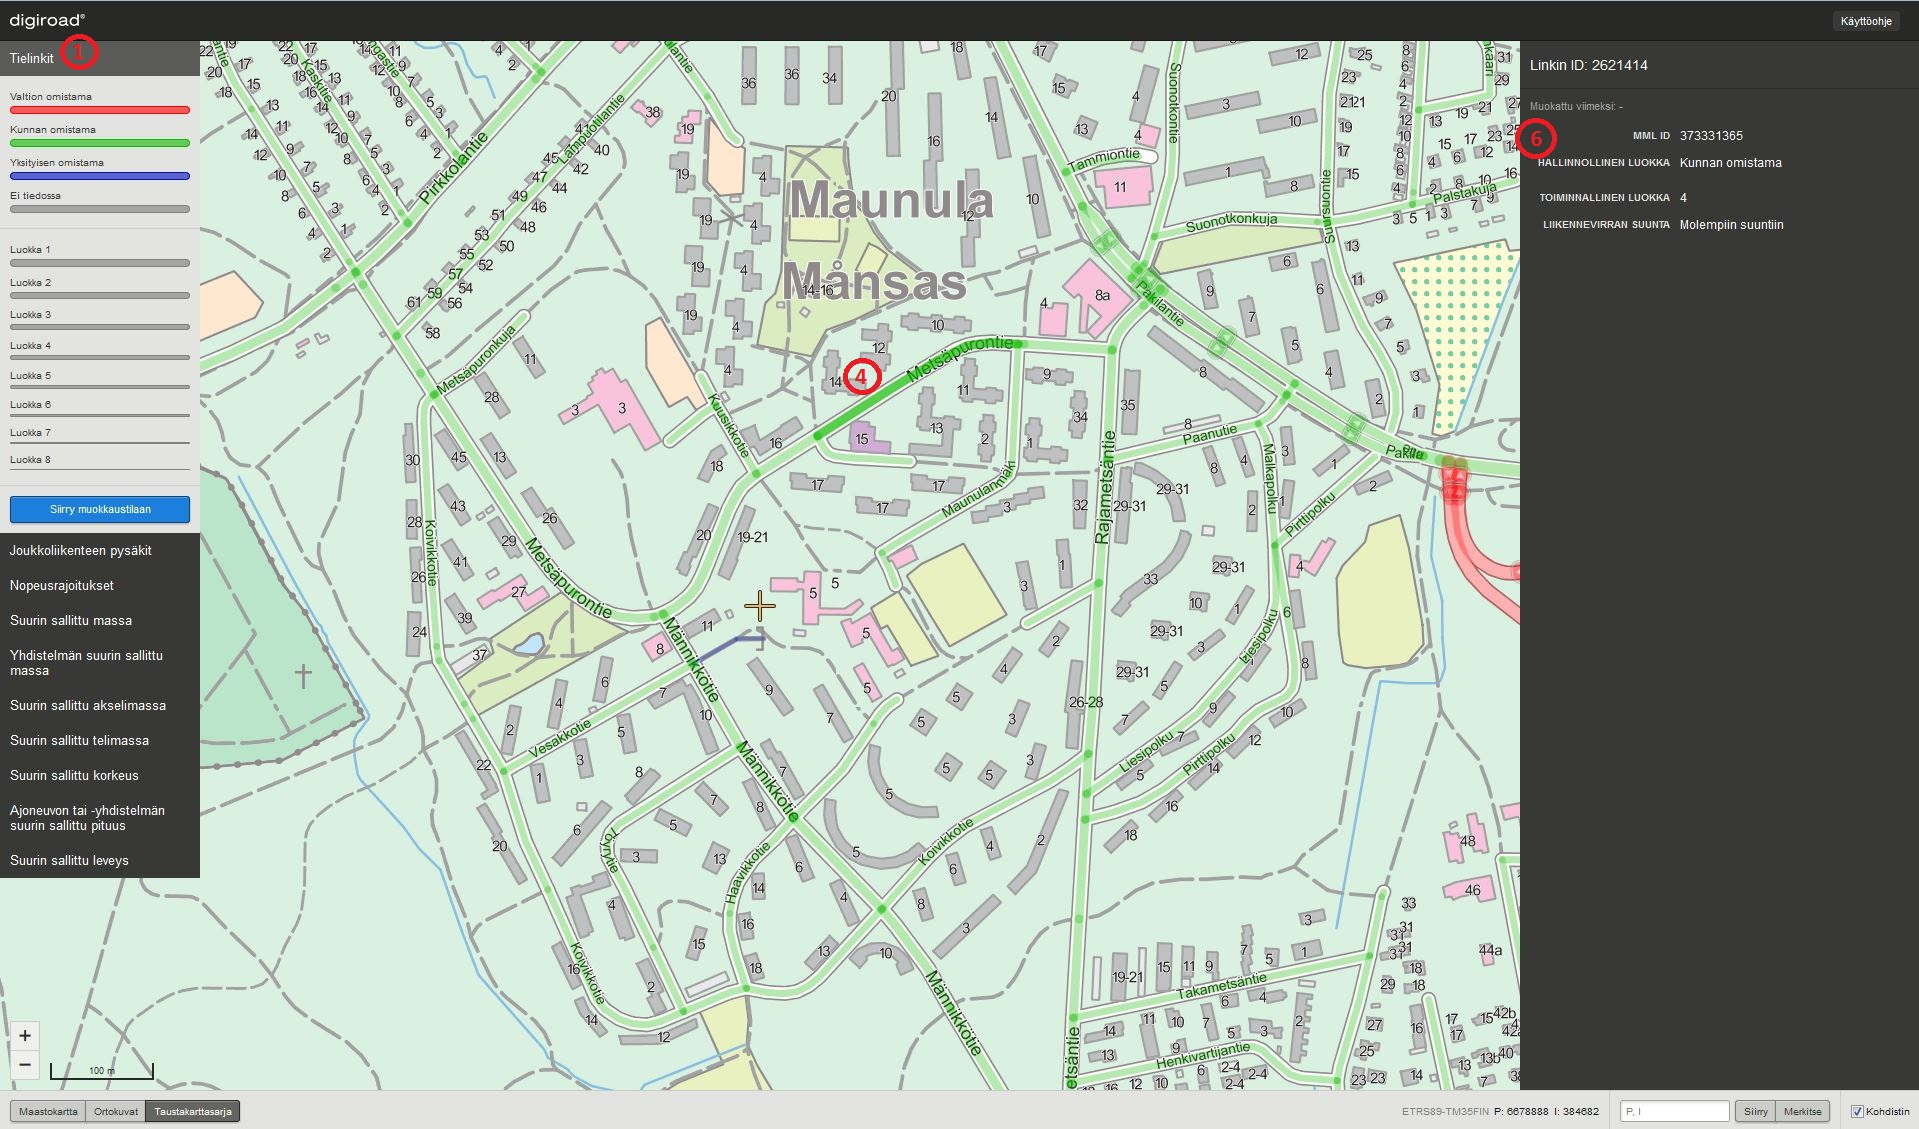
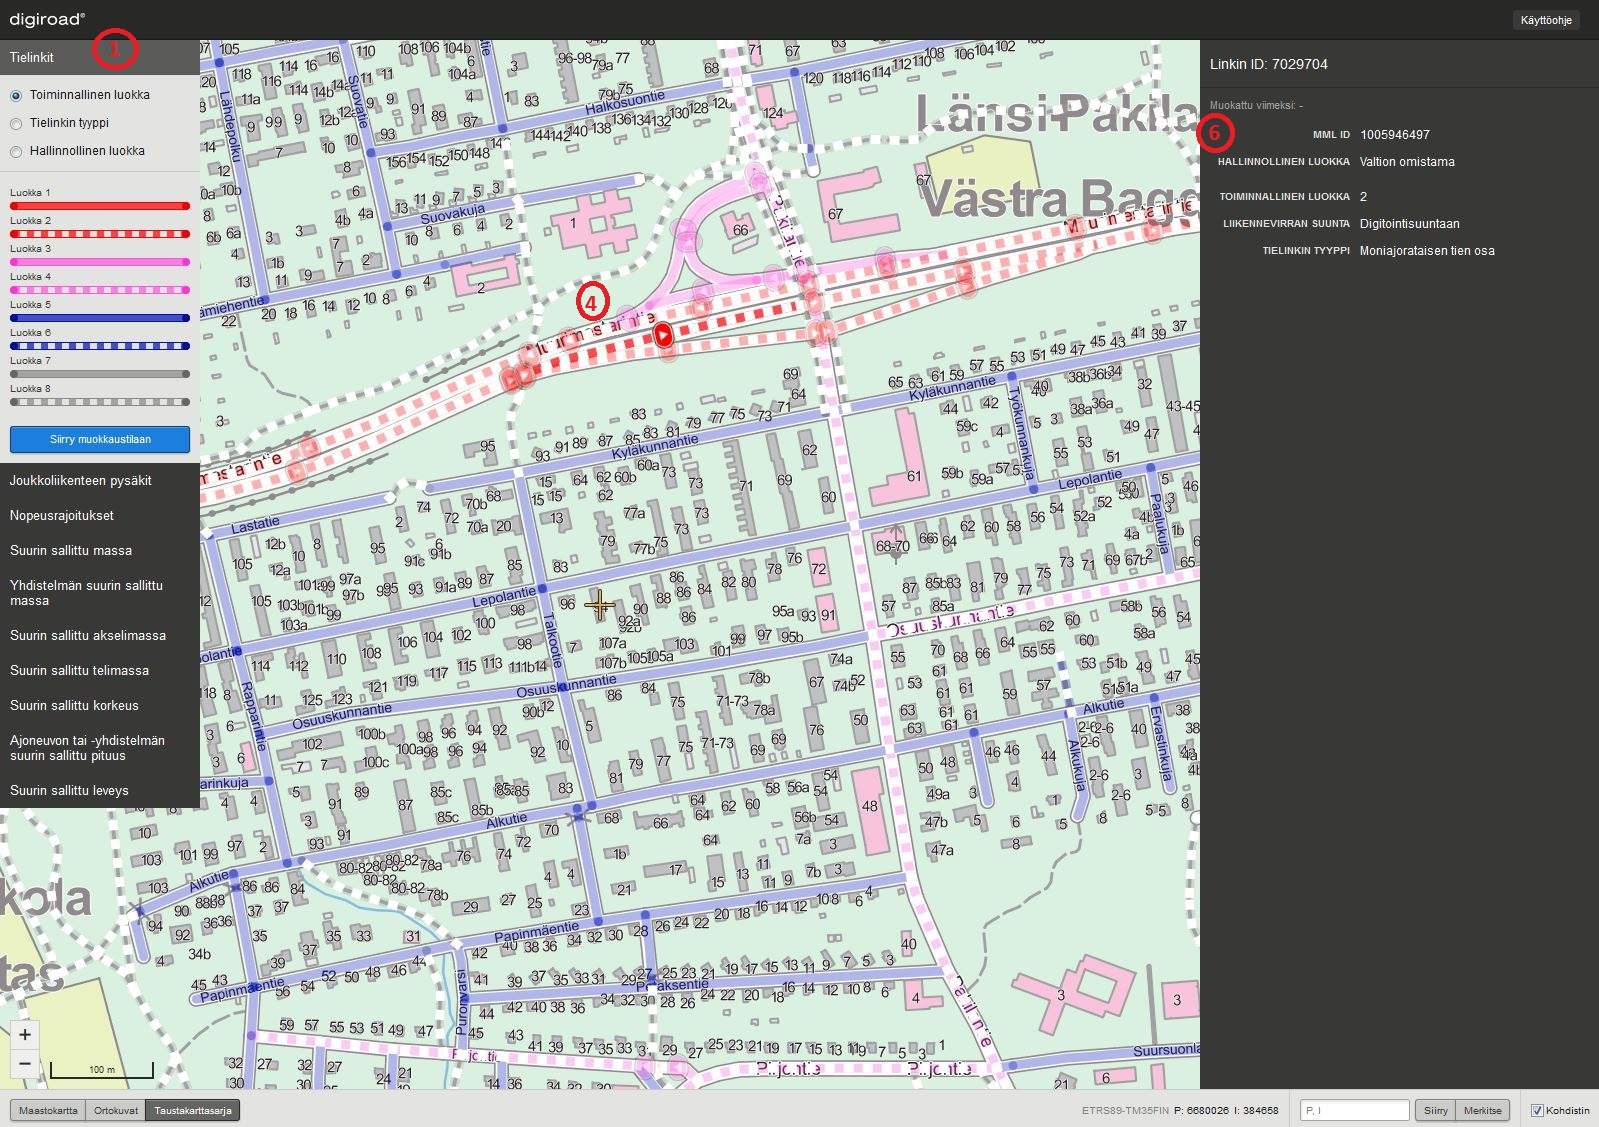
update manual

diff --git a/UI/manual/index.md b/UI/manual/index.md
@@ -146,7 +146,16 @@ Karttan&auml;kym&auml;&auml;n voi valita tielinkit valitsemalla tietolajit-palet
 
 _Tielinkit._
 
-3.3 Joukkoliikenteen pys&auml;kkien valinta
+3.2.1 Tielinkkien haku
+----------------------
+
+Tielinkkej&auml; haetaan tielinkin MML-ID:ll&auml; yksil&ouml;idyll&auml; URL-osoitteella. Esimerkki URL-osoitteesta:
+
+https://devtest.liikennevirasto.fi/digiroad/#linkProperties/373320541
+
+miss&auml; numerosarja 373320541 on tielinkin MML-ID. Toiminto tarkentaa karttak&auml;tt&ouml;liittym&auml;n haetun tielinkin kohdalle. Tielinkin ominaisuustieton&auml;kym&auml; aukeaa sivun oikealle puolelle.
+
+3.3 Joukkoliikenteen pys&auml;kit
 --------------------------------------
 
 Karttan&auml;kym&auml;&auml;n voi valita pys&auml;kkej&auml; valitsemalla tietolajit-paletista (1) Joukkoliikenteen pys&auml;kit. Pys&auml;kkej&auml; valitaan pys&auml;kin voimassaolon mukaan: voimassa olevat, tulevat ja/tai k&auml;yt&ouml;st&auml; poistuneet. Valitseminen toimii samalla tavalla sek&auml; katselu- ett&auml; muokkaustilassa.
@@ -184,7 +193,7 @@ miss&auml; numerosarja 95374 on pys&auml;kin kansallinen ID. Toiminto tarkentaa 
 
 _Joukkoliikenteen pys&auml;kkien haku._
 
-3.4 Nopeusrajoitusten valinta
+3.4 Nopeusrajoitukset
 -----------------------------
 
 Karttan&auml;kym&auml;&auml;n voi valita nopeusrajoitukset valitsemalla tietolajit-paletista (1) Nopeusrajoitukset. Karttaa tarkennettaessa nopeusrajoitukset paksuuntuvat, jotta niiden erottaminen on helpompaa. Nopeusrajoituksilla on nopeusrajoitusl&auml;tk&auml;, joka kertoo nopeusrajoituksen arvon ja linkit on visualisoitu eri v&auml;rein nopeusrajoituksen arvon mukaan. V&auml;rikoodien selitteet n&auml;kyv&auml;t Nopeusrajoitukset-valinnan alla, kun valitsee Nopeusrajoitukset.
@@ -222,13 +231,32 @@ Katselutila on sovelluksen tietolajien katselemista varten. Katselutilassa ei vo
 4.1 Tielinkin tietojen katselu
 ------------------------------
 
-Yksitt&auml;isen tielinkin ominaisuustiedot tulevat n&auml;kyviin, kun tielinkin geometriaa kartalla klikataan (4). T&auml;ll&ouml;in tielinkin geometria korostuu kartalla ja sen ominaisuustiedot avautuvat ominaisuustieton&auml;kym&auml;&auml;n (6). Tielinkin ominaisuustietoja ovat tielinkin ID, Maanmittauslaitoksen ID (MML ID), hallinnollinen luokka, toiminnallinen luokka ja liikennevirran suunta.
+Yksitt&auml;isen tielinkin ominaisuustiedot tulevat n&auml;kyviin, kun tielinkin geometriaa kartalla klikataan (4). T&auml;ll&ouml;in tielinkin geometria korostuu kartalla ja sen ominaisuustiedot avautuvat ominaisuustieton&auml;kym&auml;&auml;n (6). Tielinkin ominaisuustietoja ovat tielinkin ID, Maanmittauslaitoksen ID (MML ID), hallinnollinen luokka, toiminnallinen luokka, liikennevirran suunta ja tielinkin tyyppi.
 
-Tielinkit on visualisoitu hallinnollisen luokan ja toiminnallisen luokan mukaan siten, ett&auml; valtion omistamat tielinkit ovat punaisia, kunnan omistamat vihreit&auml; ja yksityisten omistamat sinisi&auml;. Ne tielinkit, joilla ei ole omistajaa tiedossa, on visualisoitu harmaaksi. Toiminnallinen luokka on visualisoitu tielinkin paksuutena (luokat 1-8). Niill&auml; tielinkeill&auml;, joiden liikennevirran suunta on yhteen suuntaan, on visualisoitu suuntanuoli osoittamaan liikennevirran suuntaan.
+Tielinkeille voi valita visualisoinnin Tietolajit -paletista (1) tielinkkien alta. Visualisoinnin voi valita toiminnallisen luokan, tielinkin tyypin tai hallinnollisen luokan mukaan. Valinnan mukaan visualisoinnin selitteet n&auml;kyv&auml;t Tietolajit-paletissa. Lis&auml;ksi tielinkill&auml; on visualisoitu suuntanuoli, mik&auml;li tielinkin liikennevirran suunta on vain toiseen suuntaan.
 
-![Tielinkit](k7.jpg)
+Toiminnallisen luokan selitteet ovat:
 
-_Tielinkit._
+Luokka 1: Ohjeellisesti valtatie tai seudullinen p&auml;&auml;katu
+Luokka 2: Ohjeellisesti kantatie tai seudullinen p&auml;&auml;katu
+Luokka 3: Ohjeellisesti seututie tai alueellinen p&auml;&auml;katu
+Luokka 4: Ohjeellisesti yhdystie tai kokoojakatu
+Luokka 5: Liitynt&auml;katu, t&auml;rke&auml; yksityistie
+Luokka 6: Muu yksityistie
+Luokka 7: Ajopolku
+Luokka 8: Kevyen liikenteen v&auml;yl&auml;
+
+![Tielinkit visualisoitu toiminnallisen luokan mukaan](k7.jpg)
+
+_Tielinkit visualisoitu toiminnallisen luokan mukaan._
+
+![Tielinkit visualisoitu tielinkin tyypin mukaan](k41.JPG)
+
+_Tielinkit visualisoitu tielinkin tyypin mukaan._
+
+![Tielinkit visualisoitu hallinnollisen luokan mukaan](k41.JPG)
+
+_Tielinkit visualisoitu hallinnollisen luokan mukaan._
 
 4.2 Pys&auml;kin tietojen katselu
 ----------------------------
@@ -302,7 +330,7 @@ Tielinkki on tien, kadun, kevyen liikenteen v&auml;yl&auml;n tai lauttayhteyden 
 
 Yksitt&auml;isen tielinkin ominaisuustietoja voi muokata siirtym&auml;ll&auml; muokkaustilaan. Muokattava tielinkki valitaan hiirell&auml; klikkaamalla.
 
-Tielinkin ominaisuustiedoista toiminnallinen luokka ja liikennevirran suunta ovat muokattavissa.
+Tielinkin ominaisuustiedoista toiminnallinen luokka, liikennevirran suunta ja tielinkin tyyppi ovat muokattavissa.
 
 ![Tielinkin ominaisuustietojen muokkaus.](k39.JPG)
 
